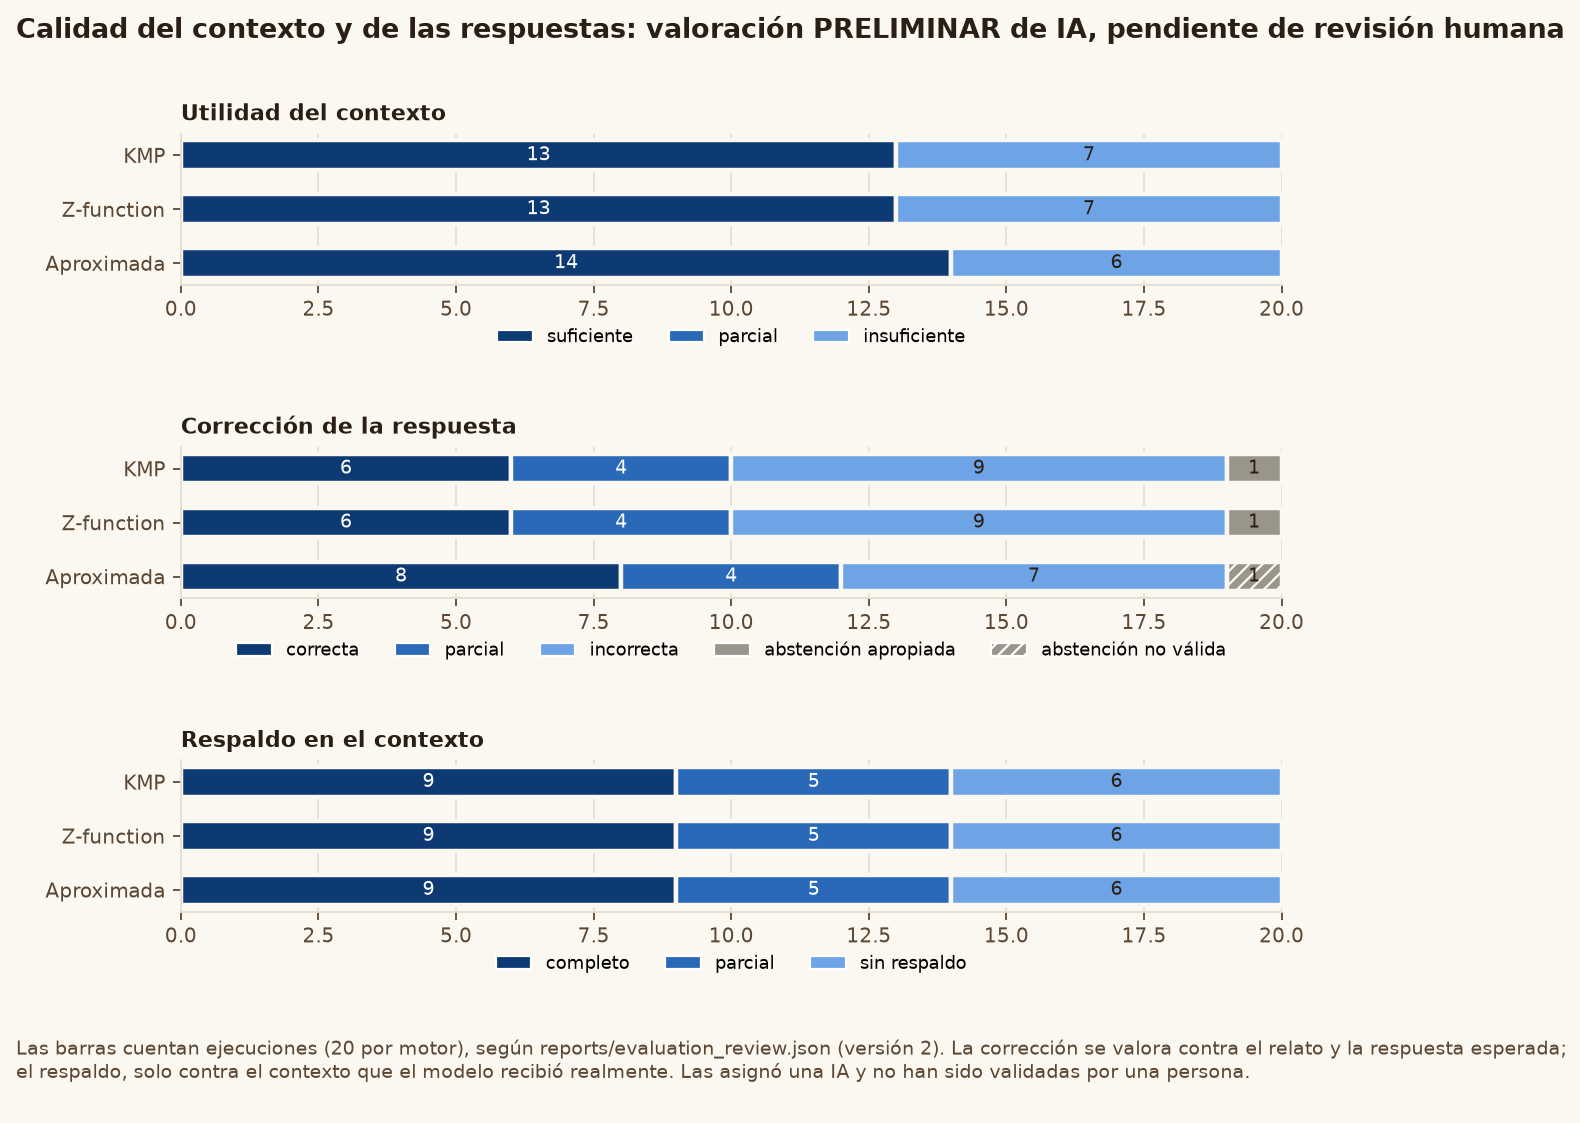
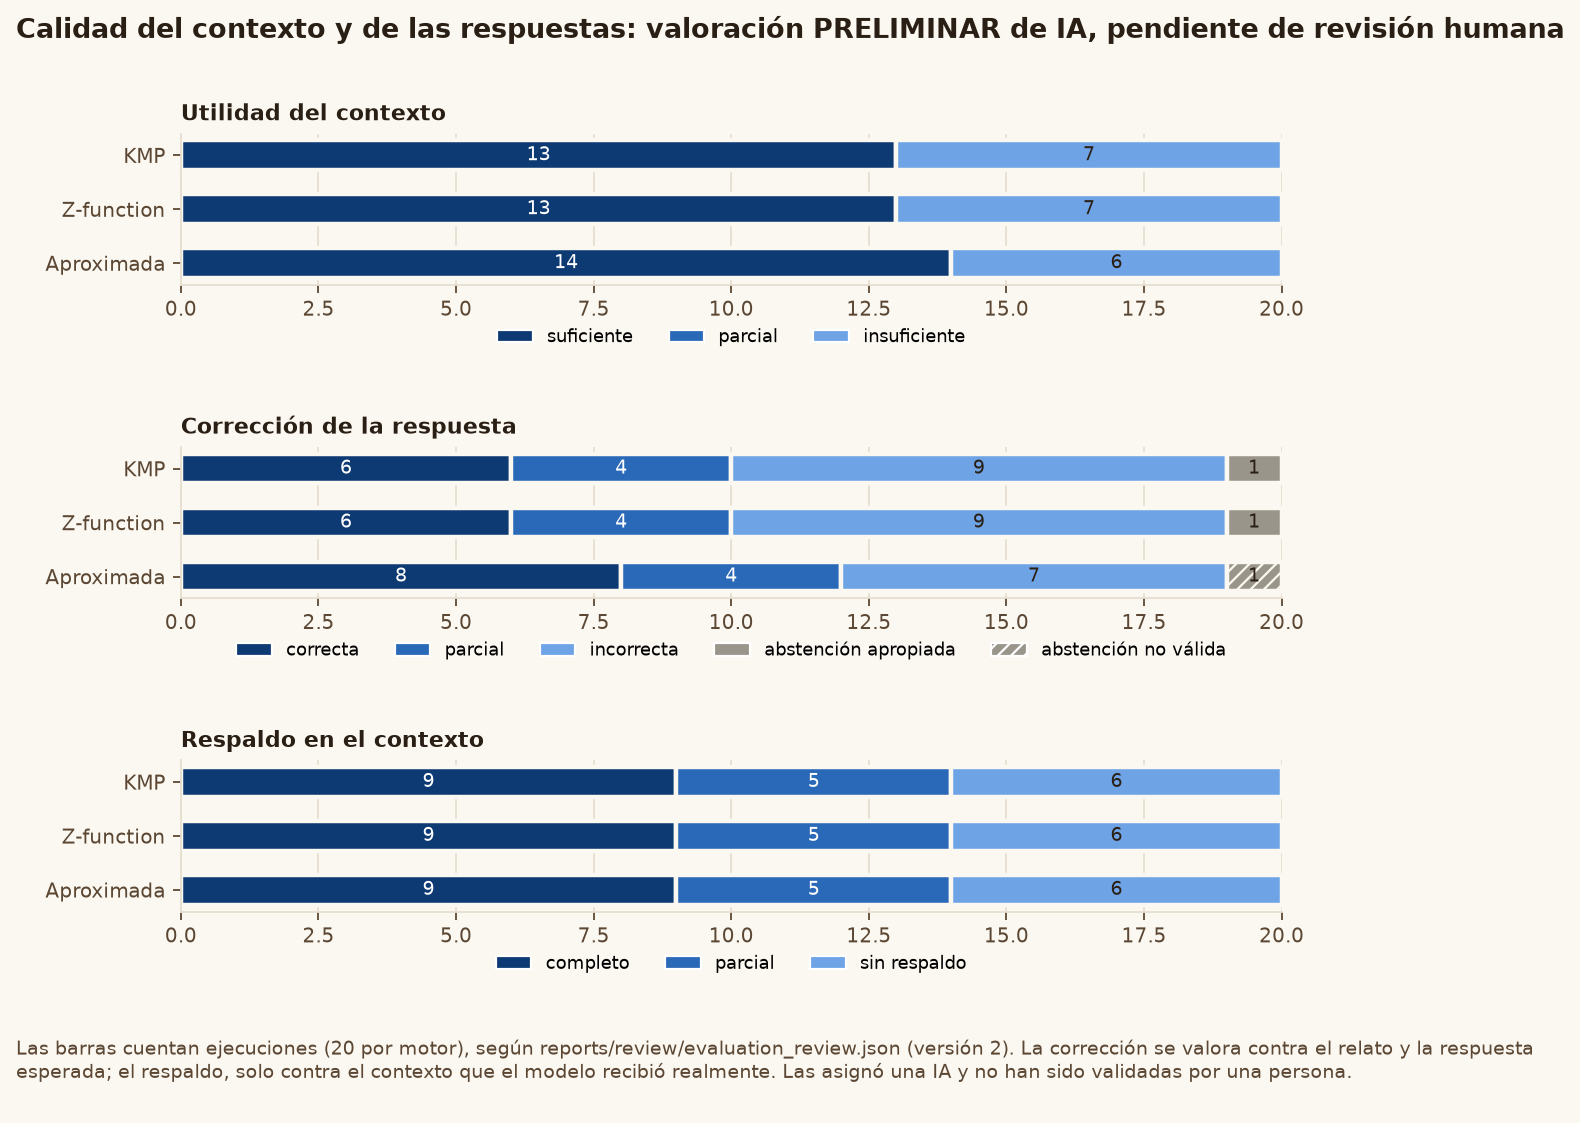
organizar por carpetas

Changed region(s): [[0.031, 0.9038, 0.9614, 0.9662]]

diff --git a/evaluation/build_review_v2.py b/evaluation/build_review_v2.py
@@ -1,13 +1,13 @@
 
 # -------------------------------------------------------------------------
-# Builds reports/evaluation_review.json: the preliminary AI review of the
+# Builds reports/review/evaluation_review.json: the preliminary AI review of the
 # 60 evaluation runs in a structured form (version 2).
 #
-#   version 1  reports/evaluation_review.md (kept unchanged)
+#   version 1  reports/review/evaluation_review.md (kept unchanged)
 #   version 2  version 1 + the corrections listed in CORRECTIONS below,
-#              documented in reports/evaluation_review_corrections.md
+#              documented in reports/review/evaluation_review_corrections.md
 #
-# The answers and contexts come from data/evaluation_results.json and are
+# The answers and contexts come from reports/results/evaluation_results.json and are
 # never modified. All assessments are preliminary, made by an AI, and
 # pending human review.
 # -------------------------------------------------------------------------
@@ -16,10 +16,10 @@ import json
 import re
 from pathlib import Path
 
-BASE_DIR = Path(__file__).resolve().parent
-REVIEW_V1 = BASE_DIR / "reports" / "evaluation_review.md"
-RESULTS_FILE = BASE_DIR / "data" / "evaluation_results.json"
-OUTPUT = BASE_DIR / "reports" / "evaluation_review.json"
+BASE_DIR = Path(__file__).resolve().parent.parent
+REVIEW_V1 = BASE_DIR / "reports" / "review" / "evaluation_review.md"
+RESULTS_FILE = BASE_DIR / "reports" / "results" / "evaluation_results.json"
+OUTPUT = BASE_DIR / "reports" / "review" / "evaluation_review.json"
 
 SECTIONS = {
     "KMP": "kmp",
@@ -34,7 +34,7 @@ CORRECTED_REFERENCES = {
                               "Merryweather sits on contains 2,000 napoleons; 30,000 were borrowed in total.",
         "reason": "The story gives the quantity for one crate only (\"The crate upon which I sit contains "
                   "2,000 napoleons\") and the total borrowed (\"30,000 napoleons from the Bank of France\"); "
-                  "it never says \"each crate\". data/evaluation_questions.json is left unchanged; this is "
+                  "it never says \"each crate\". reports/results/evaluation_questions.json is left unchanged; this is "
                   "the corrected reference used in version 2."
     }
 }
@@ -138,9 +138,9 @@ def main():
             "status": "Preliminary AI assessment, pending human review. Not a human evaluation.",
             "version": 2,
             "sources": {
-                "version_1": "reports/evaluation_review.md",
-                "corrections": "reports/evaluation_review_corrections.md",
-                "answers_and_contexts": "data/evaluation_results.json (unchanged)"
+                "version_1": "reports/review/evaluation_review.md",
+                "corrections": "reports/review/evaluation_review_corrections.md",
+                "answers_and_contexts": "reports/results/evaluation_results.json (unchanged)"
             },
             "corrected_references": CORRECTED_REFERENCES,
             "corrections": CORRECTIONS,

diff --git a/evaluation/make_stage6_figures.py b/evaluation/make_stage6_figures.py
@@ -1,9 +1,9 @@
 
 # -------------------------------------------------------------------------
 # Stage 6 figures, made only from saved results (nothing is re-run):
-#   data/evaluation_results.json   60 runs (20 questions x KMP, Z, approximate)
-#   data/scaling_results.json      retrieval time vs collection size
-#   reports/evaluation_review.json preliminary AI review (version 2)
+#   reports/results/evaluation_results.json   60 runs (20 questions x KMP, Z, approximate)
+#   reports/results/scaling_results.json      retrieval time vs collection size
+#   reports/review/evaluation_review.json preliminary AI review (version 2)
 #
 # Output: reports/figures/*.png and reports/figures/stage6_numbers.json
 # (the numbers behind the figures, reused by the app and the analysis).
@@ -19,10 +19,10 @@ matplotlib.use("Agg")
 
 import matplotlib.pyplot as plt
 
-BASE_DIR = Path(__file__).resolve().parent
-EVALUATION = BASE_DIR / "data" / "evaluation_results.json"
-SCALING = BASE_DIR / "data" / "scaling_results.json"
-REVIEW = BASE_DIR / "reports" / "evaluation_review.json"
+BASE_DIR = Path(__file__).resolve().parent.parent
+EVALUATION = BASE_DIR / "reports" / "results" / "evaluation_results.json"
+SCALING = BASE_DIR / "reports" / "results" / "scaling_results.json"
+REVIEW = BASE_DIR / "reports" / "review" / "evaluation_review.json"
 FIGURES = BASE_DIR / "reports" / "figures"
 
 ENGINES = ["kmp", "z", "approximate"]
@@ -348,7 +348,7 @@ def quality_chart(numbers):
     figure.suptitle("Calidad del contexto y de las respuestas: valoración PRELIMINAR de IA, pendiente de revisión humana",
                     x=0.0, ha="left", fontsize=12, fontweight="bold", color=INK, y=1.01)
     figure.tight_layout(h_pad=2.2)
-    note(figure, "Las barras cuentan ejecuciones (20 por motor), según reports/evaluation_review.json (versión 2). "
+    note(figure, "Las barras cuentan ejecuciones (20 por motor), según reports/review/evaluation_review.json (versión 2). "
                  "La corrección se valora contra el relato y la respuesta esperada; el respaldo, solo contra el "
                  "contexto que el modelo recibió realmente. Las asignó una IA y no han sido validadas por una persona.")
     save(figure, "fig7_quality_preliminary.png")

diff --git a/evaluation/run_scaling_experiment.py b/evaluation/run_scaling_experiment.py
@@ -28,16 +28,16 @@ import platform
 import time
 from pathlib import Path
 
-import exact_search
-from approximate_search import STOPWORDS, search_approximate
-from inverted_index import build_inverted_index
-from jaccard import char_ngrams
+from search import exact_search
+from search.approximate_search import STOPWORDS, search_approximate
+from search.inverted_index import build_inverted_index
+from search.jaccard import char_ngrams
 
-BASE_DIR = Path(__file__).resolve().parent
+BASE_DIR = Path(__file__).resolve().parent.parent
 CHUNKS_FILE = BASE_DIR / "data" / "processed_chunks.json"
-QUESTIONS_FILE = BASE_DIR / "data" / "evaluation_questions.json"
-RESULTS_FILE = BASE_DIR / "data" / "scaling_results.json"
-SUMMARY_FILE = BASE_DIR / "data" / "scaling_summary.csv"
+QUESTIONS_FILE = BASE_DIR / "reports" / "results" / "evaluation_questions.json"
+RESULTS_FILE = BASE_DIR / "reports" / "results" / "scaling_results.json"
+SUMMARY_FILE = BASE_DIR / "reports" / "results" / "scaling_summary.csv"
 
 SB = "The Speckled Band"
 BC = "The Blue Carbuncle"
@@ -245,7 +245,7 @@ def main():
             "description": "Retrieval time versus real collection size (stage 6). Qwen not used.",
             "configuration": {
                 "orders": ORDERS,
-                "questions": "the 20 questions of data/evaluation_questions.json; each order uses "
+                "questions": "the 20 questions of reports/results/evaluation_questions.json; each order uses "
                              "the questions of its base story",
                 "engines": ENGINES,
                 "top_k": TOP_K,

diff --git a/ui/results.py b/ui/results.py
@@ -15,10 +15,10 @@ BASE_DIR = Path(__file__).resolve().parent.parent
 FIGURES = BASE_DIR / "reports" / "figures"
 
 SOURCES = {
-    "evaluation": (BASE_DIR / "data" / "evaluation_results.json", "run_evaluation.py"),
-    "scaling": (BASE_DIR / "data" / "scaling_results.json", "run_scaling_experiment.py"),
-    "review": (BASE_DIR / "reports" / "evaluation_review.json", "build_review_v2.py"),
-    "numbers": (FIGURES / "stage6_numbers.json", "make_stage6_figures.py")
+    "evaluation": (BASE_DIR / "reports" / "results" / "evaluation_results.json", "evaluation/run_evaluation.py"),
+    "scaling": (BASE_DIR / "reports" / "results" / "scaling_results.json", "evaluation/run_scaling_experiment.py"),
+    "review": (BASE_DIR / "reports" / "review" / "evaluation_review.json", "evaluation/build_review_v2.py"),
+    "numbers": (FIGURES / "stage6_numbers.json", "evaluation/make_stage6_figures.py")
 }
 
 ENGINES = ["kmp", "z", "approximate"]
@@ -71,7 +71,7 @@ def figure(name, shows, observed, limits):
         st.image(str(path), width="stretch")
     else:
         missing(f"Falta <code>reports/figures/{esc(name)}</code>. Lo genera "
-                f"<code>make_stage6_figures.py</code>.")
+                f"<code>evaluation/make_stage6_figures.py</code>.")
 
     st.markdown(
         "<div class='res-caption'>"

diff --git a/evaluation/diagnose_watson.py b/evaluation/diagnose_watson.py
@@ -2,13 +2,13 @@ import json
 import time
 from pathlib import Path
 
-import watson
-from approximate_search import load_collection, search_approximate
-from test_watson_models import TRIAL_QUESTIONS, memory_mb
-from text_cleaner import tokenize
+from assistant import watson
+from search.approximate_search import load_collection, search_approximate
+from evaluation.watson_trial import TRIAL_QUESTIONS, memory_mb
+from search.text_cleaner import tokenize
 
-BASE_DIR = Path(__file__).resolve().parent
-OUTPUT = BASE_DIR / "data" / "watson_diagnostic_qwen.json"
+BASE_DIR = Path(__file__).resolve().parent.parent
+OUTPUT = BASE_DIR / "reports" / "archive" / "watson_diagnostic_qwen.json"
 
 # Evidence verified by hand in data/*.txt: the chunk that answers each
 # question, phrases that must reach the model, and words that a correct
@@ -245,7 +245,7 @@ def main():
     print(f"\nSaved to: {output}")
 
 
-FOLLOWUP_OUTPUT = BASE_DIR / "data" / "watson_diagnostic_qwen_followup.json"
+FOLLOWUP_OUTPUT = BASE_DIR / "reports" / "archive" / "watson_diagnostic_qwen_followup.json"
 
 
 def followup():

diff --git a/evaluation/run_evaluation.py b/evaluation/run_evaluation.py
@@ -4,16 +4,16 @@ import re
 import time
 from pathlib import Path
 
-import watson
-from approximate_search import load_collection, search_approximate
-from exact_search import exact_search
-from test_watson_models import memory_mb
-from text_cleaner import normalize_text
+from assistant import watson
+from search.approximate_search import load_collection, search_approximate
+from search.exact_search import exact_search
+from evaluation.watson_trial import memory_mb
+from search.text_cleaner import normalize_text
 
-BASE_DIR = Path(__file__).resolve().parent
-QUESTIONS_FILE = BASE_DIR / "data" / "evaluation_questions.json"
-RESULTS_FILE = BASE_DIR / "data" / "evaluation_results.json"
-REVIEW_FILE = BASE_DIR / "data" / "evaluation_review.csv"
+BASE_DIR = Path(__file__).resolve().parent.parent
+QUESTIONS_FILE = BASE_DIR / "reports" / "results" / "evaluation_questions.json"
+RESULTS_FILE = BASE_DIR / "reports" / "results" / "evaluation_results.json"
+REVIEW_FILE = BASE_DIR / "reports" / "results" / "evaluation_review.csv"
 
 TOP_K = 5
 WARMUP_RUNS = 1

diff --git a/tests/test_search_metrics.py b/tests/test_search_metrics.py
@@ -2,14 +2,14 @@ import json
 import random
 from pathlib import Path
 
-import watson
-from approximate_search import load_collection, search_approximate
-from exact_search import exact_search, INVERTED_INDEX, CHUNK_MAP
-from kmp import kmp_search
-from query_processing import extract_query_terms
-from z_function import z_search
+from assistant import watson
+from search.approximate_search import load_collection, search_approximate
+from search.exact_search import exact_search, INVERTED_INDEX, CHUNK_MAP
+from search.kmp import kmp_search
+from search.query_processing import extract_query_terms
+from search.z_function import z_search
 
-BASE_DIR = Path(__file__).resolve().parent
+BASE_DIR = Path(__file__).resolve().parent.parent
 
 STORIES = [None, "The Speckled Band", "The Blue Carbuncle", "The Red-Headed League"]
 

diff --git a/search/approximate_search.py b/search/approximate_search.py
@@ -3,14 +3,14 @@ import json
 import time
 from pathlib import Path
 
-from levenshtein import closest_word
-from jaccard import char_ngrams, jaccard_similarity
+from search.levenshtein import closest_word
+from search.jaccard import char_ngrams, jaccard_similarity
 
 # Shared with the exact engine. extract_query_terms is re-exported here so
 # existing imports keep working.
-from query_processing import STOPWORDS, extract_query_terms
+from search.query_processing import STOPWORDS, extract_query_terms
 
-BASE_DIR = Path(__file__).resolve().parent
+BASE_DIR = Path(__file__).resolve().parent.parent
 DATA_DIR = BASE_DIR / "data"
 
 CHUNKS_FILE = DATA_DIR / "processed_chunks.json"

diff --git a/search/exact_search.py b/search/exact_search.py
@@ -3,15 +3,15 @@ import json
 import time
 from pathlib import Path
 
-from kmp import kmp_search
-from z_function import z_search
+from search.kmp import kmp_search
+from search.z_function import z_search
 
 # Same preprocessing as the approximate engine, without spelling correction:
 # exact search looks for the terms exactly as they were written.
-from query_processing import extract_query_terms
+from search.query_processing import extract_query_terms
 
 
-BASE_DIR = Path(__file__).resolve().parent
+BASE_DIR = Path(__file__).resolve().parent.parent
 DATA_DIR = BASE_DIR / "data"
 
 with open(DATA_DIR / "processed_chunks.json", "r", encoding="utf-8") as file:

diff --git a/tests/test_trie.py b/tests/test_trie.py
@@ -2,11 +2,11 @@ import json
 import time
 from pathlib import Path
 
-from trie import Trie
-from autocomplete import load_vocabulary, load_document_frequency, build_trie
+from search.trie import Trie
+from search.autocomplete import load_vocabulary, load_document_frequency, build_trie
 
-BASE_DIR = Path(__file__).resolve().parent
-RESULTS_FILE = BASE_DIR / "data" / "trie_results.json"
+BASE_DIR = Path(__file__).resolve().parent.parent
+RESULTS_FILE = BASE_DIR / "reports" / "results" / "trie_results.json"
 
 TEST_PREFIXES = ["bel", "ven", "goo", "tun", "car", "sher", "ro", "sp", "wh", "zzz"]
 REPETITIONS = 200
